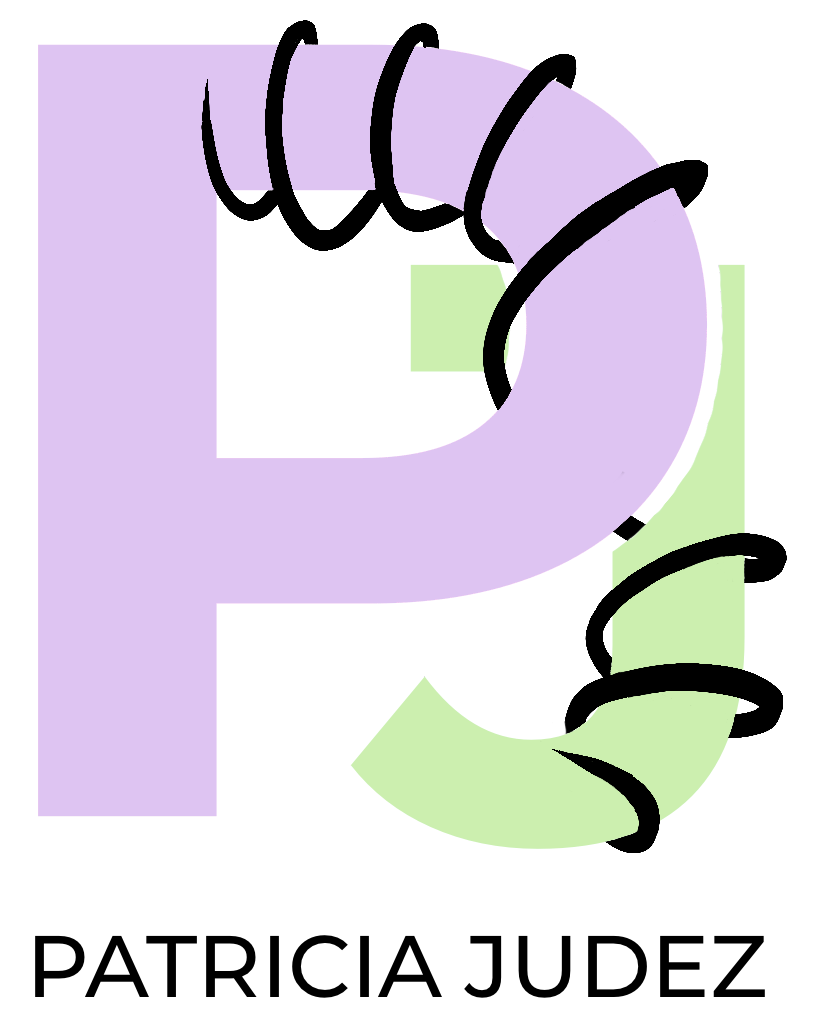
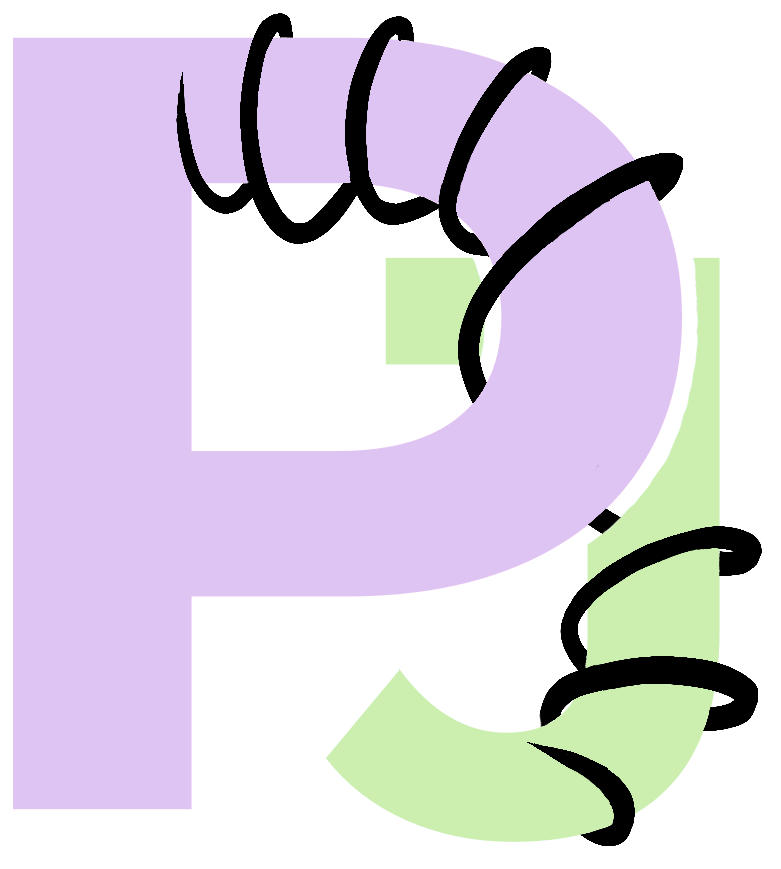
HTML responsive

diff --git a/src/app/top-bar/top-bar.component.html b/src/app/top-bar/top-bar.component.html
@@ -1,4 +1,5 @@
-<img src="assets/PJ.png" alt="logo" width="6%"/>
+<img src="assets/PJ.png" alt="logo" style="max-width:8%;height:auto;"/>
+
 <nav class="menu"> 
   <ul class="menu">
     <a class="button fancy-button" href="#">Projects</a>
